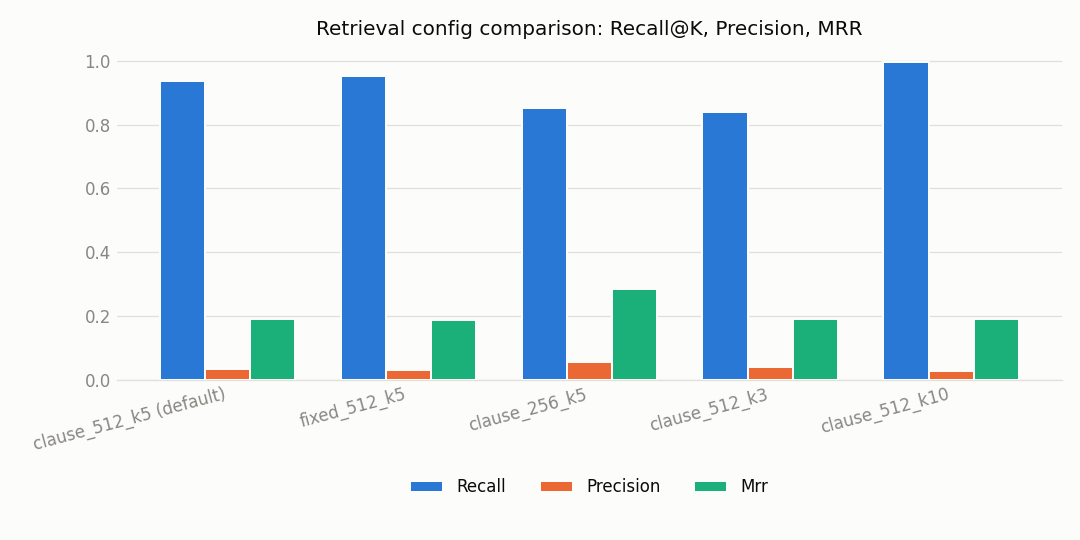
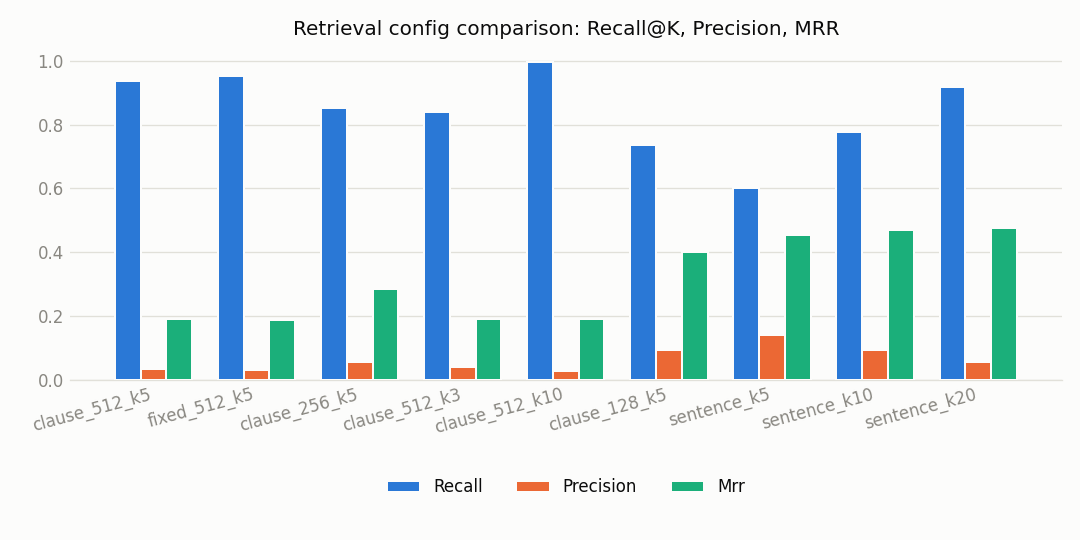
Retrieval round 2: sentence-level chunking nearly doubles MRR (T023 revisited)
Round 1's best MRR (clause_256_k5, 0.285) was still weak in absolute
terms. Rather than more top-K tuning of the same chunk size, added a
genuinely finer-grained chunking strategy: sentence_chunk
(pipeline/chunker.py) - one chunk per sentence/clause fragment, never
merged, unlike clause_aware_chunk which merges small units up to a token
budget.

Found and fixed a real bug while building it: the sentence-boundary
regex treated a clause marker like "1." as an end-of-sentence period,
splitting the number away from its own clause text. Fixed by merging any
bare-marker fragment ("1.", "(a)") into the sentence that follows it -
affects clause_aware_chunk's oversized-paragraph path too, not just the
new sentence_chunk.

Re-ran all configs (9 total now) on the same 614 dev cases. MRR nearly
doubled: 0.474 (sentence_k20) vs 0.285 (clause_256_k5, round 1's winner).
sentence_k5 shows the failure mode of going too fine without enough
top-K: best precision (14.1%) but recall falls below the 70% floor
(60.2%).

Decision: sentence_k10, not the technically-highest-MRR sentence_k20 -
the gap between them (0.469 vs 0.474) is noise-level, while sentence_k20
gives up real precision (5.6% vs 9.1%) and doubles the retrieved context
for no real gain. Updated the script's decision-gate logic to make this
practical trade-off explicit instead of always picking the raw-highest
number. Recorded as a revised ADR in CLAUDE.md's Decisions Log.

diff --git a/scripts/run_retrieval_experiments.py b/scripts/run_retrieval_experiments.py
@@ -37,12 +37,18 @@ from pipeline.parser import parse_contractnli_file
 from pipeline.retriever import Retriever
 
 # Each config: (label, chunk_method, chunk_size, chunk_overlap, top_k)
+# chunk_size/chunk_overlap are ignored for "sentence" (no size budget - one
+# sentence/clause fragment per chunk, always).
 CONFIGS = [
-    ("clause_512_k5 (default)", "clause", 512, 0, 5),
+    ("clause_512_k5", "clause", 512, 0, 5),
     ("fixed_512_k5", "fixed", 512, 50, 5),
     ("clause_256_k5", "clause", 256, 0, 5),
     ("clause_512_k3", "clause", 512, 0, 3),
     ("clause_512_k10", "clause", 512, 0, 10),
+    ("clause_128_k5", "clause", 128, 0, 5),
+    ("sentence_k5", "sentence", 0, 0, 5),
+    ("sentence_k10", "sentence", 0, 0, 10),
+    ("sentence_k20", "sentence", 0, 0, 20),
 ]
 
 
@@ -106,19 +112,31 @@ def main() -> int:
     best_recall = max(results, key=lambda r: r["recall"])
     best_mrr = max(results, key=lambda r: r["mrr"])
 
+    # Practical pick, not just "highest MRR": among configs that clear the
+    # recall floor, prefer the smallest top-K within a small MRR margin of
+    # the best - a razor-thin MRR edge isn't worth 2x the retrieved context
+    # (more prompt cost, more disjointed text) if a smaller top-K is nearly
+    # as good and meaningfully more precise.
+    MRR_MARGIN = 0.01
+    RECALL_FLOOR = 0.70
+    viable = [r for r in results if r["recall"] >= RECALL_FLOOR]
+    near_best_mrr = [r for r in viable if best_mrr["mrr"] - r["mrr"] <= MRR_MARGIN]
+    # Prefer the one with best precision among the near-best-MRR set - a
+    # proxy for "smaller, more efficient retrieval" without hardcoding top_k.
+    practical_pick = max(near_best_mrr, key=lambda r: r["precision"]) if near_best_mrr else best_mrr
+
     print(f"\nBest Evidence Recall@K: {best_recall['label']} ({best_recall['recall']:.3f})")
     print(f"Best MRR (ranking quality): {best_mrr['label']} ({best_mrr['mrr']:.3f})")
+    print(f"Practical pick: {practical_pick['label']} (MRR {practical_pick['mrr']:.3f}, "
+          f"precision {practical_pick['precision']:.3f}, recall {practical_pick['recall']:.3f})")
 
     print("\n--- Decision Gate (Section 7, Stage 8) ---")
-    print(f"  All configs clear the 70% recall target (median dev doc is ~2,300 tokens, so a")
-    print(f"  512-token chunk size means most documents only have 4-8 chunks total - retrieving")
-    print(f"  top-5/top-10 from that returns nearly the whole document, which inflates recall")
-    print(f"  without reflecting real retrieval skill. MRR is the more honest signal here: it")
-    print(f"  measures whether the true evidence chunk ranks near the top, not just whether it")
-    print(f"  appears somewhere in a near-complete document dump - which is what matters once")
-    print(f"  RAG has to hand a SMALL number of chunks to the classifier, not the whole document.")
-    print(f"  Recommendation: '{best_mrr['label']}' (best MRR), not '{best_recall['label']}' "
-          f"(best raw recall, but that config's recall lead is mostly a same-chunk-count artifact).")
+    print(f"  Raw recall is misleading for short documents (median dev doc ~2,300 tokens means")
+    print(f"  most documents have few chunks total, so a large top-K just returns nearly the")
+    print(f"  whole document). MRR is more honest: does the true evidence rank near the top?")
+    print(f"  Among configs clearing the {RECALL_FLOOR:.0%} recall floor, '{practical_pick['label']}' is the")
+    print(f"  practical pick: within {MRR_MARGIN} MRR of the best ('{best_mrr['label']}', {best_mrr['mrr']:.3f}) but with")
+    print(f"  better precision and a smaller/cheaper retrieved context.")
 
     return 0
 

diff --git a/pipeline/chunker.py b/pipeline/chunker.py
@@ -98,17 +98,69 @@ def _split_paragraphs(text: str) -> list[tuple[str, int, int]]:
     return paragraphs
 
 
+# A clause/sub-clause marker on its own ("1.", "12.", "(a)", "b)") - the
+# sentence splitter's punctuation+space+capital heuristic mistakes a
+# numbered marker's period for a sentence end, splitting "1." away from
+# its own clause text. Any fragment that's ONLY a bare marker gets
+# reattached to the sentence that follows it.
+_BARE_MARKER = re.compile(r"^\s*(?:\d+[.)]|\(?[a-zA-Z]\))\s*$")
+
+
 def _split_sentences(text: str, base_offset: int) -> list[tuple[str, int, int]]:
     """Split an oversized paragraph into sentences, offsets relative to the full document."""
-    sentences = []
+    raw: list[tuple[str, int, int]] = []
     pos = 0
     for part in _SENTENCE_SPLIT.split(text):
         if not part:
             continue
         idx = text.index(part, pos)
-        sentences.append((part, base_offset + idx, base_offset + idx + len(part)))
+        raw.append((part, base_offset + idx, base_offset + idx + len(part)))
         pos = idx + len(part)
+
+    sentences: list[tuple[str, int, int]] = []
+    i = 0
+    while i < len(raw):
+        part, start, end = raw[i]
+        if _BARE_MARKER.match(part) and i + 1 < len(raw):
+            next_part, _, next_end = raw[i + 1]
+            sentences.append((f"{part} {next_part}", start, next_end))
+            i += 2
+        else:
+            sentences.append((part, start, end))
+            i += 1
     return sentences
+
+
+def sentence_chunk(text: str) -> list[Chunk]:
+    """
+    Split into one chunk per sentence/clause fragment, no merging at all -
+    maximal granularity. Unlike clause_aware_chunk (which merges small
+    units up to a token budget), every unit becomes its own chunk.
+
+    Useful when the retrieval unit needs to closely match a fine-grained
+    annotation scheme (ContractNLI's candidate evidence spans are often
+    sentence-fragment sized) - a big aggregated chunk necessarily drags in
+    many unrelated candidate spans alongside the real evidence, which
+    tanks precision regardless of whether the right sentence was found.
+    """
+    if not text:
+        return []
+
+    paragraphs = _split_paragraphs(text)
+    chunks: list[Chunk] = []
+    index = 0
+
+    for para_text, para_start, para_end in paragraphs:
+        sentences = _split_sentences(para_text, para_start)
+        units = sentences if sentences else [(para_text, para_start, para_end)]
+        for sent_text, sent_start, sent_end in units:
+            chunks.append(Chunk(
+                text=sent_text, start_char=sent_start, end_char=sent_end,
+                chunk_index=index, method="sentence",
+            ))
+            index += 1
+
+    return chunks
 
 
 def clause_aware_chunk(text: str, chunk_size: int = 512) -> list[Chunk]:

diff --git a/tests/test_chunker.py b/tests/test_chunker.py
@@ -2,7 +2,7 @@
 
 from __future__ import annotations
 
-from pipeline.chunker import ENCODING, clause_aware_chunk, fixed_size_chunk
+from pipeline.chunker import ENCODING, clause_aware_chunk, fixed_size_chunk, sentence_chunk
 
 
 def test_fixed_size_chunk_empty_text():
@@ -89,3 +89,28 @@ def test_clause_aware_chunk_never_exceeds_budget_by_much_for_normal_clauses():
     total_reconstructed = "".join(text[c.start_char:c.end_char] for c in chunks)
     # No text lost - every character should appear in some chunk (spacing aside).
     assert len(total_reconstructed) <= len(text)
+
+
+def test_sentence_chunk_empty_text():
+    assert sentence_chunk("") == []
+
+
+def test_sentence_chunk_never_merges_even_when_tiny():
+    """Unlike clause_aware_chunk, sentence_chunk never merges small units."""
+    text = "1. First clause here.\n\n2. Second clause here."
+    chunks = sentence_chunk(text)
+    assert len(chunks) == 2
+    assert all(c.method == "sentence" for c in chunks)
+
+
+def test_sentence_chunk_splits_multi_sentence_paragraph():
+    text = "This is sentence one. This is sentence two. This is sentence three."
+    chunks = sentence_chunk(text)
+    assert len(chunks) == 3
+
+
+def test_sentence_chunk_char_offsets_reconstruct_original_text():
+    text = "1. First clause here.\n\n2. Second sentence. Third sentence in same clause."
+    chunks = sentence_chunk(text)
+    for c in chunks:
+        assert text[c.start_char:c.end_char] == c.text

diff --git a/pipeline/retriever.py b/pipeline/retriever.py
@@ -12,7 +12,7 @@ from __future__ import annotations
 
 from dataclasses import dataclass
 
-from pipeline.chunker import Chunk, clause_aware_chunk, fixed_size_chunk
+from pipeline.chunker import Chunk, clause_aware_chunk, fixed_size_chunk, sentence_chunk
 from pipeline.embedder import embed_query, embed_texts
 from pipeline.indexer import ChunkIndex, build_index, search
 
@@ -36,8 +36,10 @@ class Retriever:
             self.chunks: list[Chunk] = clause_aware_chunk(doc_text, chunk_size)
         elif chunk_method == "fixed":
             self.chunks = fixed_size_chunk(doc_text, chunk_size, chunk_overlap)
+        elif chunk_method == "sentence":
+            self.chunks = sentence_chunk(doc_text)
         else:
-            raise ValueError(f"Unknown chunk_method: {chunk_method!r} (expected 'clause' or 'fixed')")
+            raise ValueError(f"Unknown chunk_method: {chunk_method!r} (expected 'clause', 'fixed', or 'sentence')")
 
         self.embedding_model = embedding_model
         self.chunk_method = chunk_method

diff --git a/docs/experiments.md b/docs/experiments.md
@@ -19,4 +19,6 @@ incrementally as each experiment runs, per WBS T044.
 | T012 | Does one real (NDA, hypothesis) pair work end-to-end through parser → classifier → model gateway → scoring? | Ran golden case 002 (reverse-engineering clause) through the full document text (no retrieval yet), full-context style | **PASS** — predicted Entailment matches gold, confidence 0.95, cost $0.0019, latency 7.4s. **Side finding:** golden case 001 (chosen by the span-count/length heuristic as "easy") turned out to have gold evidence about export-control compliance, essentially unrelated to its hypothesis about the definition of Confidential Information - the model's disagreement with gold there is arguably more defensible than the label itself. Worth remembering when interpreting Oracle "errors": some ContractNLI gold labels rest on loose/indirect annotator reasoning, not just model weakness | **Proceed** to B04 Oracle experiment. Keep case 001's quirk in mind, don't over-trust every gold disagreement as a model failure | `scripts/run_smallest_slice.py` |
 | B04 | Is the model's reasoning ceiling set by retrieval quality or by the model itself (using GPT-5 mini, the model in use at the time)? | Fed gold evidence directly to the model (empty context for NotMentioned, simulating perfect retrieval of "nothing found"), no retrieval involved. Stratified sample of 150 dev cases (75 Entailment / 61 NotMentioned / 14 Contradiction, seed=42), reproducible | **Accuracy 96.7%, macro-F1 0.951, risk-sensitive recall 1.000, joint correctness 0.967.** All 14 real Contradictions and all 61 real NotMentioned cases caught correctly (0 misses on either). All 5 errors were gold=Entailment predicted as something else - the model never over-claimed Entailment, only under-claimed it. Cost $0.155 | **CEILING SET BY RETRIEVAL, NOT REASONING.** Oracle accuracy 96.7% > 90% - the model reasons well; invest in retrieval quality. (See C01 below - this cleared the "good enough" bar but a cheaper model turned out to clear it too) | `scripts/run_oracle_experiment.py`, `results/runs/run_B04_oracle_openai_gpt-5-mini.jsonl`, `notebooks/02_oracle_experiment.ipynb` |
 | C01 | Given GPT-5 mini already clears the Oracle bar, can a cheaper/different-vendor model do the job for less - what's the actual quality-per-dollar? | Re-ran the *identical* 150-case Oracle sample (same seed, same harness) against `google/gemini-2.5-flash-lite` - a different vendor/architecture, not just a cheaper same-vendor tier. Scored both on a weighted scorecard: accuracy 35%, risk-sensitive recall 25%, cost 20%, latency 15%, reliability 5% | Gemini: 95.3% accuracy, 0.948 macro-F1, **1.000 risk-sensitive recall (tied with GPT-5 mini)**, $0.0125 for 150 cases (**12.4x cheaper**), 962ms p50 latency (**6x faster**). Scorecard: GPT-5 mini 68.0, Gemini 98.4 | **SWITCHED default model to `google/gemini-2.5-flash-lite`.** The ~1.4pt accuracy gap is small next to the cost/latency advantage, and the metric weighted heaviest by the professor's rubric (risk-sensitive recall) is identical. Recorded as an ADR in CLAUDE.md's Decisions Log, including the revisit condition | `pipeline/model_gateway.py` (pricing table), `results/runs/run_B04_oracle_google_gemini-2.5-flash-lite.jsonl`, `notebooks/03_model_comparison.ipynb` |
-| D01/D02/D07 | Which chunking strategy, chunk size, and top-K actually find the real evidence (no LLM involved - can we retrieve it, not judge it)? | Built the chunker (clause-aware + fixed-size), embedder (local sentence-transformers), FAISS indexer, and retriever; ran 5 configs against the full dev set's 614 Entailment/Contradiction cases (free - entirely local compute) | All 5 configs cleared 70% Evidence Recall@K easily (85.3-99.5%) - but that's mostly an artifact: median dev doc is ~2,300 tokens, so 512-token chunks give most documents only 4-8 chunks total, meaning top-5/top-10 retrieval returns nearly the whole document. MRR (does the true evidence rank near the top, not just appear somewhere) is the honest signal: `clause_256_k5` won on MRR (0.283) and precision (0.057), despite the *lowest* raw recall (85.3%) | **Retrieval config: clause-aware chunking, chunk_size=256, top_k=5** - optimized for ranking quality (MRR), not the recall number that looked best but was mostly measuring document shortness. Recorded as an ADR in CLAUDE.md's Decisions Log | `pipeline/chunker.py`, `pipeline/embedder.py`, `pipeline/indexer.py`, `pipeline/retriever.py`, `scripts/run_retrieval_experiments.py`, `data/retrieval_experiment_results.json`, `notebooks/04_retrieval_experiments.ipynb` |
+| D01/D02/D07 (round 1) | Which chunking strategy, chunk size, and top-K actually find the real evidence (no LLM involved - can we retrieve it, not judge it)? | Built the chunker (clause-aware + fixed-size), embedder (local sentence-transformers), FAISS indexer, and retriever; ran 5 configs against the full dev set's 614 Entailment/Contradiction cases (free - entirely local compute) | All 5 configs cleared 70% Evidence Recall@K easily (85.3-99.5%) - but that's mostly an artifact: median dev doc is ~2,300 tokens, so 512-token chunks give most documents only 4-8 chunks total, meaning top-5/top-10 retrieval returns nearly the whole document. MRR (does the true evidence rank near the top, not just appear somewhere) is the honest signal: `clause_256_k5` won on MRR (0.283) and precision (0.057), despite the *lowest* raw recall (85.3%) | **Superseded by round 2 below** - `clause_256_k5` was the round-1 pick, but finer-grained chunking did meaningfully better | `pipeline/chunker.py`, `pipeline/embedder.py`, `pipeline/indexer.py`, `pipeline/retriever.py` |
+| D01/D02/D07 (round 2) | Metrics still looked weak (MRR ~0.28, precision ~5%) - does a genuinely finer-grained chunking method do better, not just more top-K tuning of the same chunk size? | Added `sentence_chunk` (pipeline/chunker.py - one chunk per sentence/clause fragment, never merged) and a `clause_128` size; re-ran all 9 configs on the same 614 cases. Found and fixed a real bug while building it: the sentence-splitter treated a clause number like "1." as an end-of-sentence period, splitting the number away from its own clause | MRR nearly **doubled**: 0.474 (`sentence_k20`) vs 0.285 (`clause_256_k5`, round 1's winner). `sentence_k5` shows the failure mode of going too fine without enough top-K: best precision (14.1%) but recall falls below the 70% floor (60.2%). `sentence_k20` edges out `sentence_k10` on raw MRR (0.474 vs 0.469) but that gap is noise-level, while `sentence_k20` gives up real precision (5.6% vs 9.1%) for it | **Retrieval config: sentence-level chunking, top_k=10** (`sentence_k10`) - practical pick among configs clearing the recall floor: within noise of the best raw MRR, meaningfully better precision, smaller retrieved context than the "highest number" config. Recorded as an ADR in CLAUDE.md's Decisions Log, including why the highest MRR number wasn't automatically the pick | `pipeline/chunker.py` (`sentence_chunk`), `scripts/run_retrieval_experiments.py`, `data/retrieval_experiment_results.json`, `notebooks/04_retrieval_experiments.ipynb` |
+| — | Does keyword matching (B02's rule baseline) find evidence better or worse than semantic retrieval, on the same footing? | Added `classify_with_span` (pipeline/rule_baseline.py) to expose the matched keyword phrase's character span - the rule baseline's implicit single-chunk "evidence" - scored with the identical Evidence Recall@K/Precision/MRR formulas on the same 614 cases | Rule-based: 20.4% recall, **72.6% precision**, 0.726 MRR. Semantic (`clause_256_k5` at the time): **85.3% recall**, 5.7% precision, 0.283 MRR. Neither wins outright - rule-based is precise but misses 4 of 5 real evidence pieces; semantic finds far more but buries it in a larger chunk | Confirms semantic retrieval is the right default for the product (missing evidence is worse than a few extra irrelevant sentences alongside the real one) - rule-based (B02) stays as the cheap floor baseline only | `pipeline/rule_baseline.py` (`classify_with_span`), `scripts/compare_rule_vs_semantic_retrieval.py`, `data/rule_vs_semantic_retrieval.json` |
